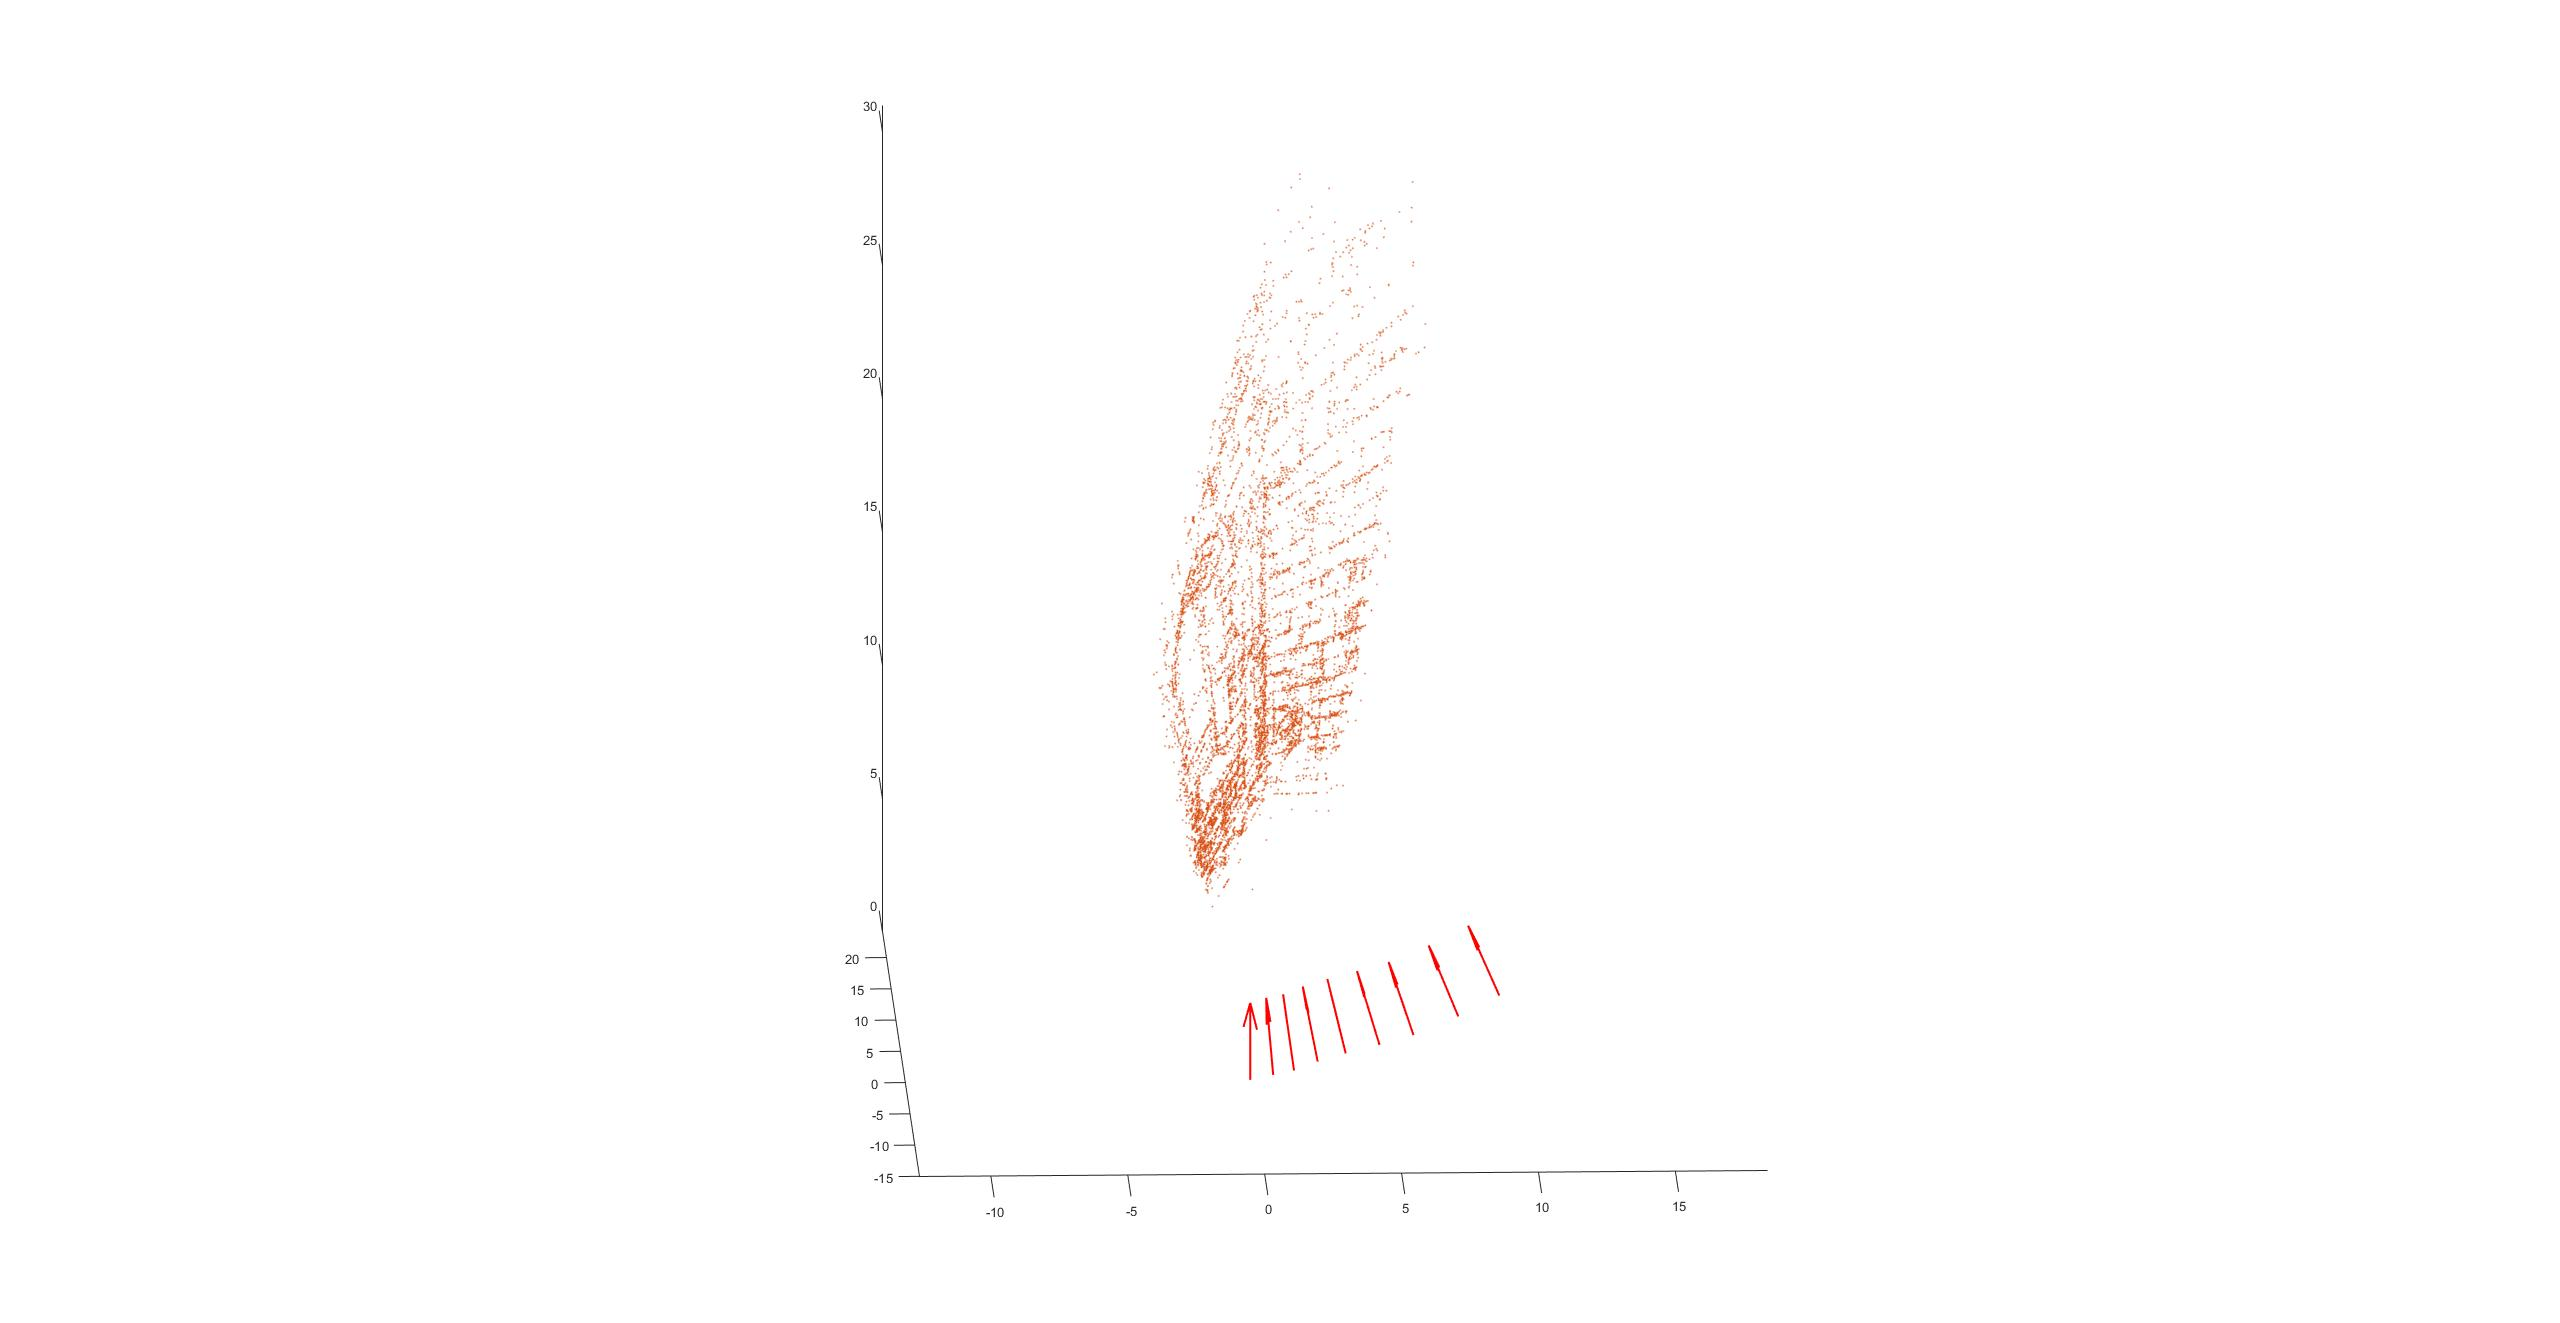
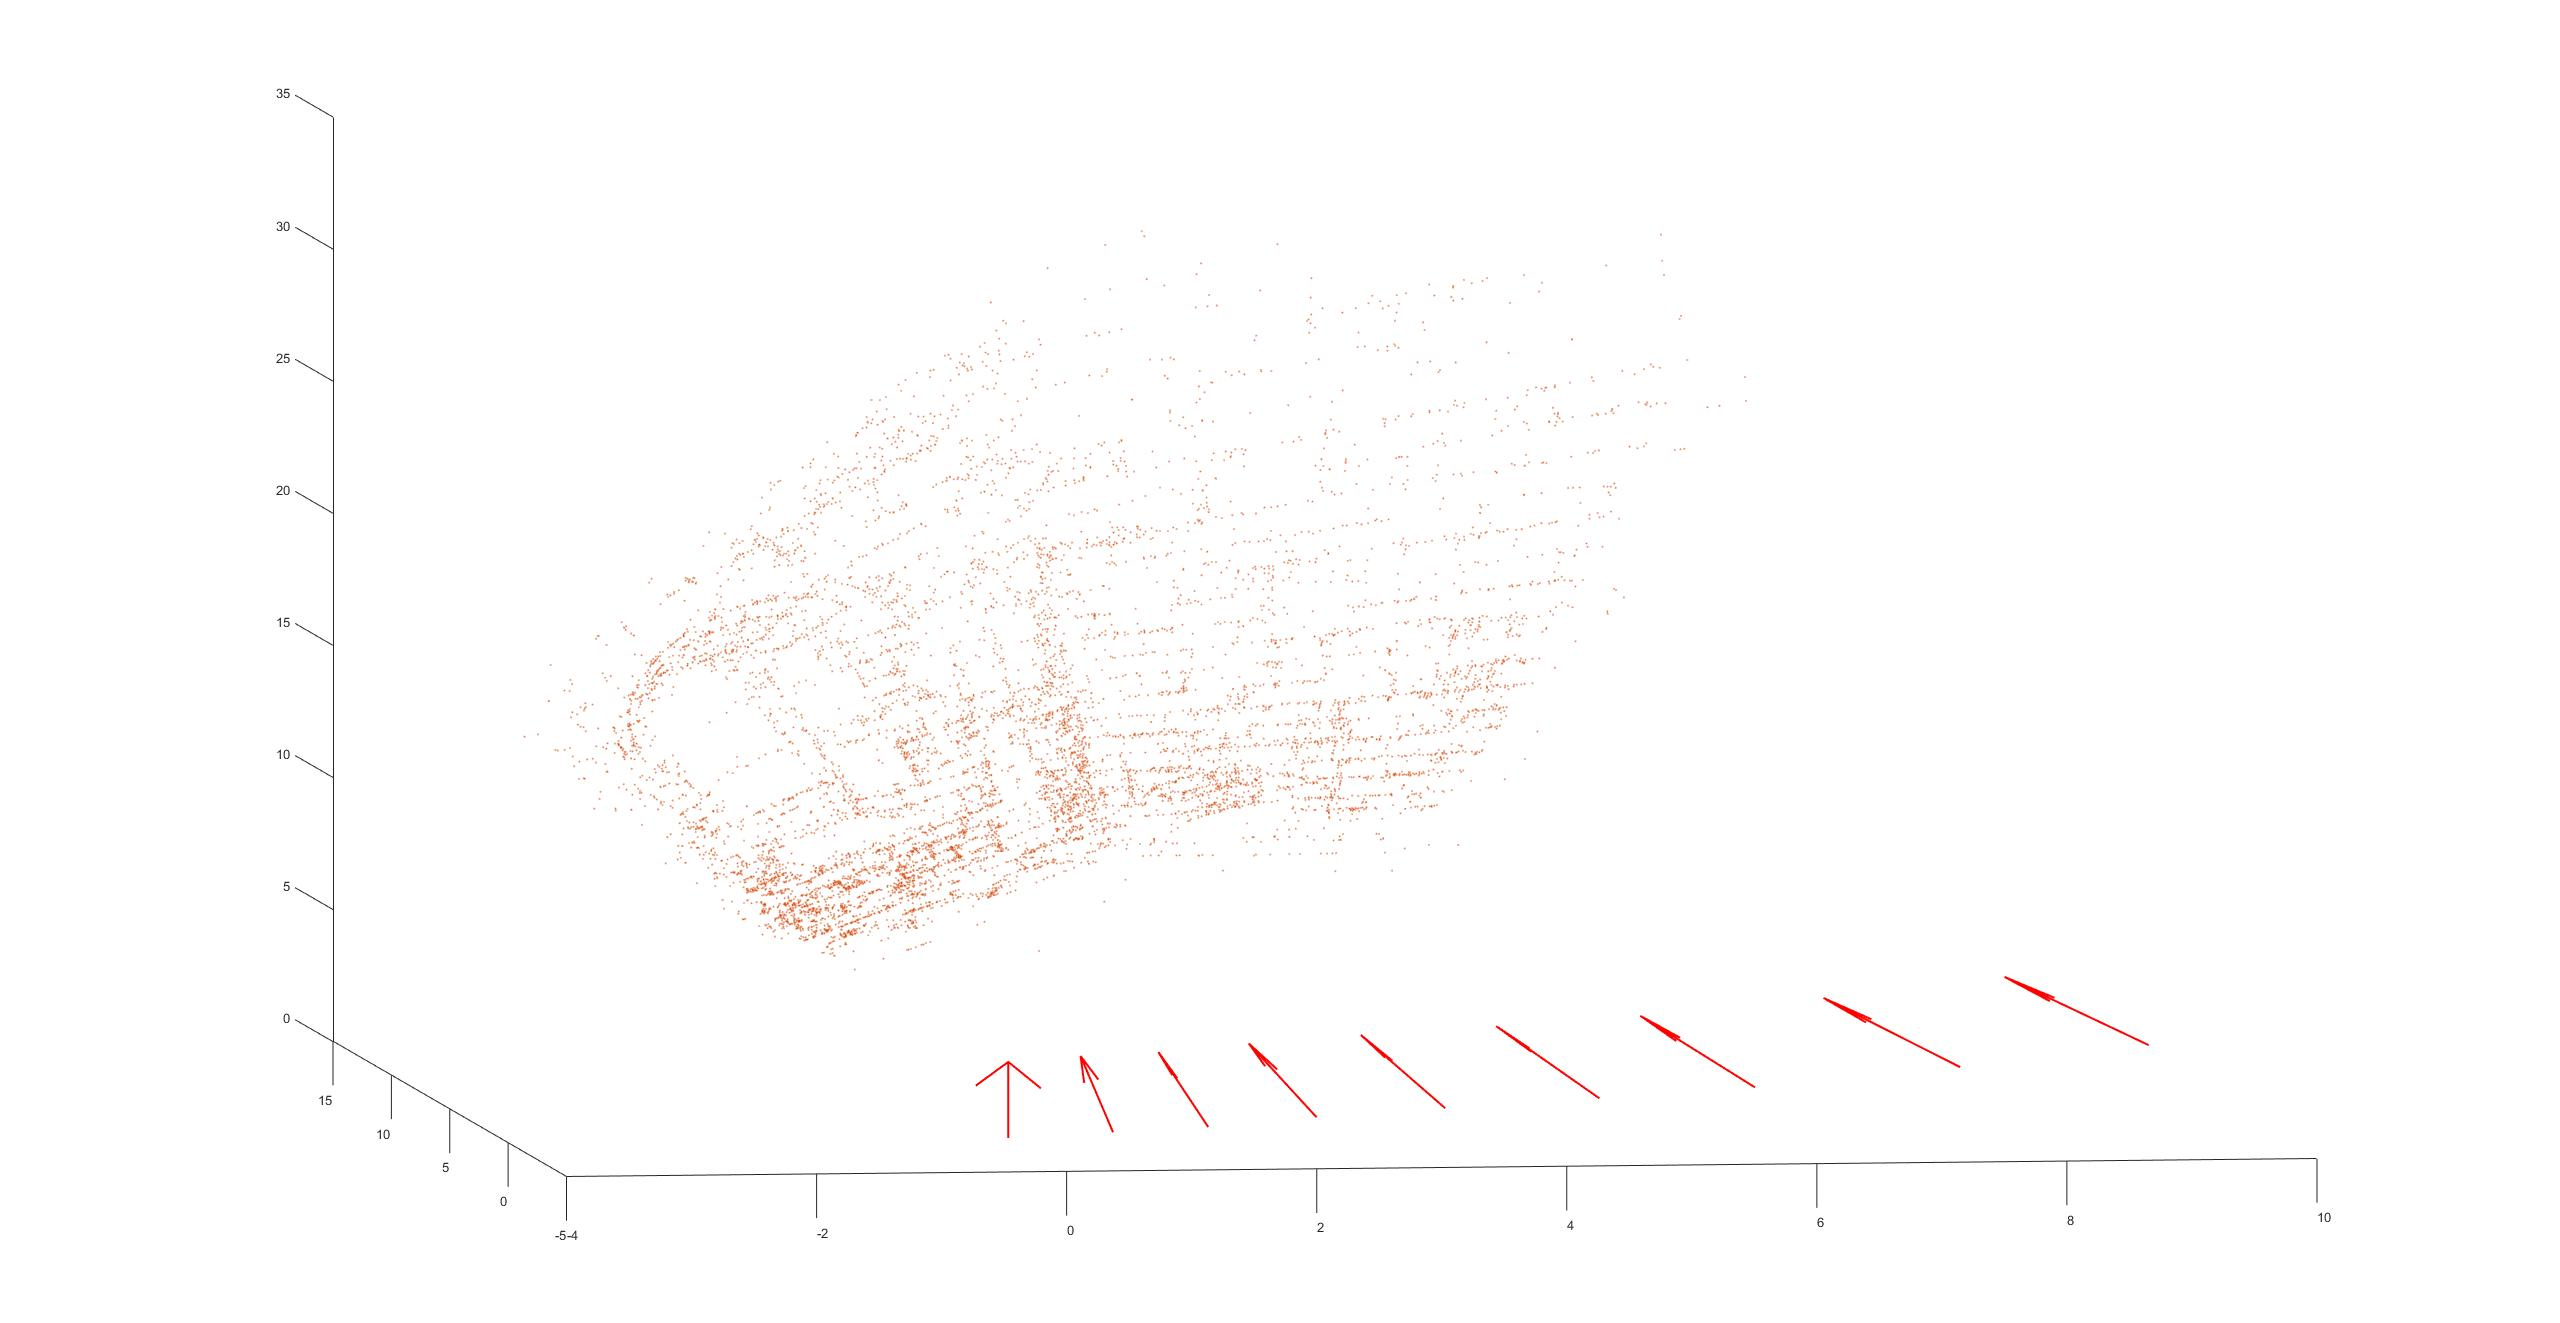
A2 done

diff --git a/assignment 2/scripts/compEx5.m b/assignment 2/scripts/compEx5.m
@@ -2,7 +2,7 @@ clear;
 compEx3;
 close all;
 compEx4;
-
+%Add ones
 spacePoints = [];
 x11 = [x1; ones(1,257)];
 x21 = [x2; ones(1,257)];
@@ -13,7 +13,7 @@ x21 = [x2; ones(1,257)];
 
 
 
-
+%Build the dlt
 zero = [0; 0; 0];
 for i=1:257
    A= [];
@@ -39,7 +39,9 @@ figure('Name','Im1 Non Normalized','NumberTitle','off')
 im1 = imread ('cube1.jpg');
 hold on;
 imagesc ( im1 );
-plot (xproj1(1 ,:) , xproj1 (2 ,:),'. ', 'Markersize' ,20);
+plot (xproj1(1 ,:) , xproj1 (2 ,:), 'ro ' );
+plot (x1(1 ,:) , x1 (2 ,:), '*' );
+
 hold off;
 
 figure('Name','Im2 Non Normalized','NumberTitle','off')
@@ -47,7 +49,39 @@ figure('Name','Im2 Non Normalized','NumberTitle','off')
 im2 = imread ('cube2.jpg');
 hold on;
 imagesc ( im2 );
-plot (xproj2 (1 ,:) , xproj2 (2 ,:) , '. ' , 'MarkerSize', 20)
+plot (xproj2(1 ,:) , xproj2 (2 ,:), 'ro ' );
+plot (x2(1 ,:) , x1 (2 ,:), '*' );
+
+
+
+
+
+
+xproj1N = pflat ( P1inner\P1 * spacePoints );
+xproj2N = pflat ( P2inner\P2 * spacePoints );
+x1N = P1inner\x11;
+x2N = P2inner\x21;
+%xproj1N= inv(P1inner)*xproj1N;
+
+
+figure('Name','Im1 Normalized','NumberTitle','off')
+hold on;
+plot (xproj1N(1 ,:) , xproj1N (2 ,:), 'ro ' );
+plot (x1N(1 ,:) , x1N (2 ,:), '*' );
+
+
+figure('Name','Im2 Normalized','NumberTitle','off')
+
+hold on;
+plot (xproj2N(1 ,:) , xproj2N (2 ,:), 'ro ' );
+plot (x2N(1 ,:) , x2N (2 ,:), '*' );
+
+
+
+
+
+
+
 
 
 good_points = ( sqrt ( sum (( x1 - xproj1 (1:2 ,:)).^2)) < 3 & ...
@@ -68,7 +102,7 @@ spacePoints = spacePoints (: , good_points );
 
 figure('Name','3D Model','NumberTitle','off')
 hold on;
-plot3 (spacePoints (1 ,:) ,spacePoints (2 ,:) , spacePoints (3 ,:) , '. ', 'Markersize',20);
+plot3 (spacePoints (1 ,:) ,spacePoints (2 ,:) , spacePoints (3 ,:) , '. ', 'Markersize',5);
 
 P1pos = pflat(null(P1));
 p1dir=P1(3 ,1:3)/norm( P1(3 ,1:3));
@@ -82,4 +116,9 @@ quiver3 (P1pos(1) , P1pos(2) , P1pos(3) , p1dir(1) , p1dir(2) , p1dir(3) , 5);
 plot3 (P2pos (1 ,:) ,P2pos (2 ,:) , P2pos (3 ,:) , '. ', 'Markersize',20);
 
 quiver3 (P2pos(1) , P2pos(2) , P2pos(3) , p2dir(1) , p2dir(2) , p2dir(3) , 5); 
+hold off;
+
+
+
+
 

diff --git a/assignment 2/scripts/compEx1.m b/assignment 2/scripts/compEx1.m
@@ -4,13 +4,13 @@ load('compEx1data.mat');
 
 
 figure('Name','Reconstruction','NumberTitle','off')
+hold on;
 plotcams(P);
 plot3 (X (1 ,:) , X (2 ,:) , X (3 ,:) , '. ', 'Markersize' ,2);
 hold off;
 
 figure('Name','Projection into cameras','NumberTitle','off')
 hold on;
-axis equal;
 im = imread ( imfiles {1 });
 imagesc ( im );
 visible = isfinite (x{ 1 }(1 ,:));
@@ -18,62 +18,65 @@ plot (x {1 }(1 , visible ), x {1 }(2 , visible ), '* ');
 xproj = P{1}*X;
 xproj = pflat(xproj);
 plot ( xproj (1 , visible ) , xproj (2 , visible ), 'ro ' );
+axis equal;
 hold off;
 
 
 
 T1 = [1 0 0 0; 0 4 0 0; 0 0 1 0; 1/10 1/10 0 1];
 T2=[1 0 0 0; 0 1 0 0; 0 0 1 0; 1/16 1/16 0 1];
-P1 = P{1}*T1;
 
 
-P1 = cell(1, 9);
-P2 = cell(1, 9);
+PT1 = cell(1, 9);
+PT2 = cell(1, 9);
 
 
 for i = 1:9
-    P1{i}= P{i}*T1;
-    P2{i}= P{i}*T2;
+  
+    PT1{i}= P{i}/T1;
+    PT2{i}= P{i}/T2;
 
 end
 
-X1 = T1\ X; 
+X1 = T1*X;
 X1 = pflat(X1);
-X2 = T2\X;
+X2 = T2*X;
 X2 = pflat(X2);
 
-figure;
+
+
+figure('Name','T1 ModelPoints','NumberTitle','off')
 hold on;
-plotcams(P1);
+plotcams(PT1);
 plot3 (X1 (1 ,:) , X1 (2 ,:) , X1 (3 ,:) , '. ', 'Markersize' ,2);
 axis equal
 hold off;
 
-figure;
+figure('Name','T2 ModelPoints','NumberTitle','off')
 hold on;
-plotcams(P2);
+plotcams(PT2);
 plot3 (X2 (1 ,:) , X2 (2 ,:) , X2 (3 ,:) , '. ', 'Markersize' ,2);
 axis equal;
 hold off;
 
-figure;
+figure('Name','T1 Projection','NumberTitle','off')
 hold on;
 imagesc ( im );
 visible = isfinite (x{ 1 }(1 ,:));
 plot (x {1 }(1 , visible ), x {1 }(2 , visible ), '* ');
-xproj = P{1}*X1;
+xproj = PT1{1}*X1;
 xproj = pflat(xproj);
 plot ( xproj (1 , visible ) , xproj (2 , visible ), 'ro ' );
 axis equal;
 hold off;
 
 
-figure;
+figure('Name','T2 Projection','NumberTitle','off')
 hold on;
 imagesc ( im );
 visible = isfinite (x{ 1 }(1 ,:));
 plot (x {1 }(1 , visible ), x {1 }(2 , visible ), '* ');
-xproj = P{1}*X2;
+xproj = PT2{1}*X2;
 xproj = pflat(xproj);
 plot ( xproj (1 , visible ) , xproj (2 , visible ), 'ro ' );
 axis equal;

diff --git a/assignment3/scripts/compEx1.m b/assignment3/scripts/compEx1.m
@@ -1,0 +1,75 @@
+clear
+close all;
+load('compEx1data.mat');
+
+
+
+std1 = std (x {1 }(1:2 ,:) ,0 ,2);
+
+s1 = (std1(1) + std1(end))/2;
+s1 = 1 /s1;
+
+x1mean = mean (x {1 }(1:2 ,:) ,2);
+x2mean = mean (x {2 }(1:2 ,:) ,2);
+
+std2 = std (x {2 }(1:2 ,:) ,0 ,2);
+
+s2 = (std2(1) + std2(end))/2;
+s2 = 1 /s2;
+
+
+
+N1 = [s1, 0, -s1*x1mean(1); 0 s1 -s1*x1mean(2); 0 0 1];
+N2 = [s2, 0, -s2(1)*x2mean(1); 0 s2 -s2*x2mean(2); 0 0 1];
+
+x1n = N1 * x{1};
+x2n = N2 * x{2};
+
+M = [];
+for i= 1:2008 
+    
+    block = [];
+    for j= 1:3 
+           block = horzcat(block, [x1n(j,i)*x2n(1, i) x1n(j,i)*x2n(2, i) x1n(j,i)*x2n(3, i)]);
+   
+    end
+    M = vertcat(M, block);
+    
+end
+
+[U ,S ,V] = svd ( M );
+
+v = V(:,end);
+
+
+norm(M*v)
+norm(v)*norm(v)
+
+
+Fn = reshape (v ,[3 3])
+det(Fn)
+
+plot ( diag ( x2n'* Fn * x1n ));
+
+F = transpose(N2) *Fn * N1;
+F = F./F(3, 3)
+l = F*x {1}; 
+l = l ./ sqrt ( repmat ( l (1 ,:).^2 + l (2 ,:).^2 ,[3 1]));
+
+
+figure;
+hold on;
+im = imread ('kronan2.jpg');
+
+
+
+hold off;
+
+
+hist ( abs ( sum ( l .* x {2})) ,100);
+
+
+
+
+
+

diff --git a/assignment3/scripts/psphere.m b/assignment3/scripts/psphere.m
@@ -1,0 +1,14 @@
+function [y,alpha]=psphere(x);
+% [y,alpha]=psphere(x) - normalization of projective points.
+% Do a normalization on the projective
+% points in x. Each column is considered to
+% be a point in homogeneous coordinates.
+% INPUT :
+%  x     - matrix in which each column is a point.
+% OUTPUT :
+%  y     - result after normalization.
+%  alpha - depth
+
+[a,n]=size(x);
+alpha=sqrt(sum(x.^2));
+y=x./(ones(a,1)*alpha);

diff --git a/assignment3/scripts/rital.m b/assignment3/scripts/rital.m
@@ -1,0 +1,16 @@
+function rital(linjer,st)
+if nargin == 1,
+ st='-';
+end;
+if size(linjer)==0,
+  slask=[];
+else
+  [slask,nn]=size(linjer);
+  rikt=psphere([linjer(2,:);-linjer(1,:);zeros(1,nn)]);
+  punkter=pflat(cross(rikt,linjer));
+  for i=1:nn;
+   plot([punkter(1,i)-2000*rikt(1,i) punkter(1,i)+2000*rikt(1,i)], ...
+        [punkter(2,i)-2000*rikt(2,i) punkter(2,i)+2000*rikt(2,i)],st);
+  end;
+  slask=[];
+end;

diff --git a/assignment 2/scripts/compEx2.m b/assignment 2/scripts/compEx2.m
@@ -1,13 +1,13 @@
 clear;
-load('compEx1data.mat');
+close all;
+compEx1;
+close all;
+
 K1 = rq(P{1});
 K1 = K1./K1(3,3)
 
-T1 = [1 0 0 0; 0 4 0 0; 0 0 1 0; 1/10 1/10 0 1];
-T2=[1 0 0 0; 0 1 0 0; 0 0 1 0; 1/16 1/16 0 1];
-
-K2 = rq(P{1}*T1);
+K2 = PT1{1};
 K2 = K2./K2(3,3)
 
-K3 = rq(P{1}*T2);
+K3 = rq(PT2{1});
 K3= K3./K3(3,3)

diff --git a/assignment 2/scripts/compEx3.m b/assignment 2/scripts/compEx3.m
@@ -104,8 +104,11 @@ quiver3 (P2pos(1) , P2pos(2) , P2pos(3) , p2dir(1) , p2dir(2) , p2dir(3) , 5);
 
 hold off;
 
-P1inner = rq(P1)
-P2inner = rq(P2)
+P1inner = rq(P1);
+P2inner = rq(P2);
+
+P1inner = P1inner./P1inner(3, 3)
+P2inner = P2inner./P2inner(3, 3)
 
 
 
